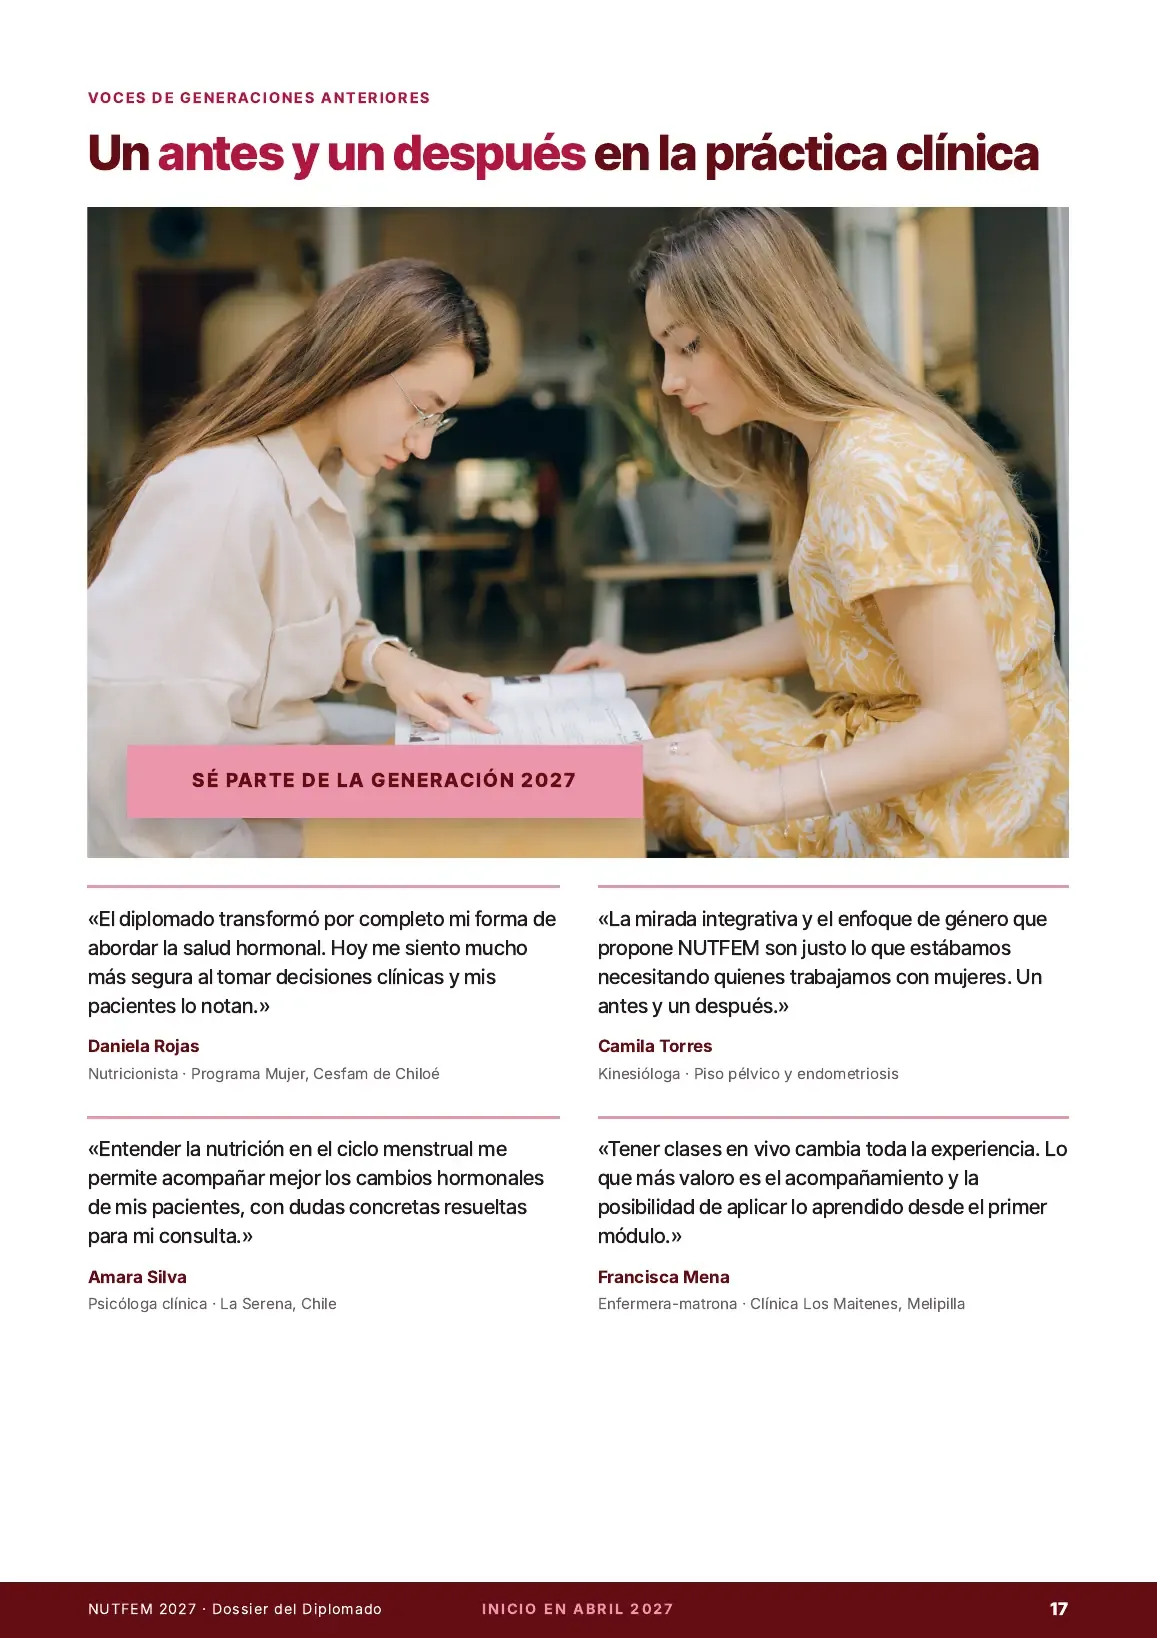
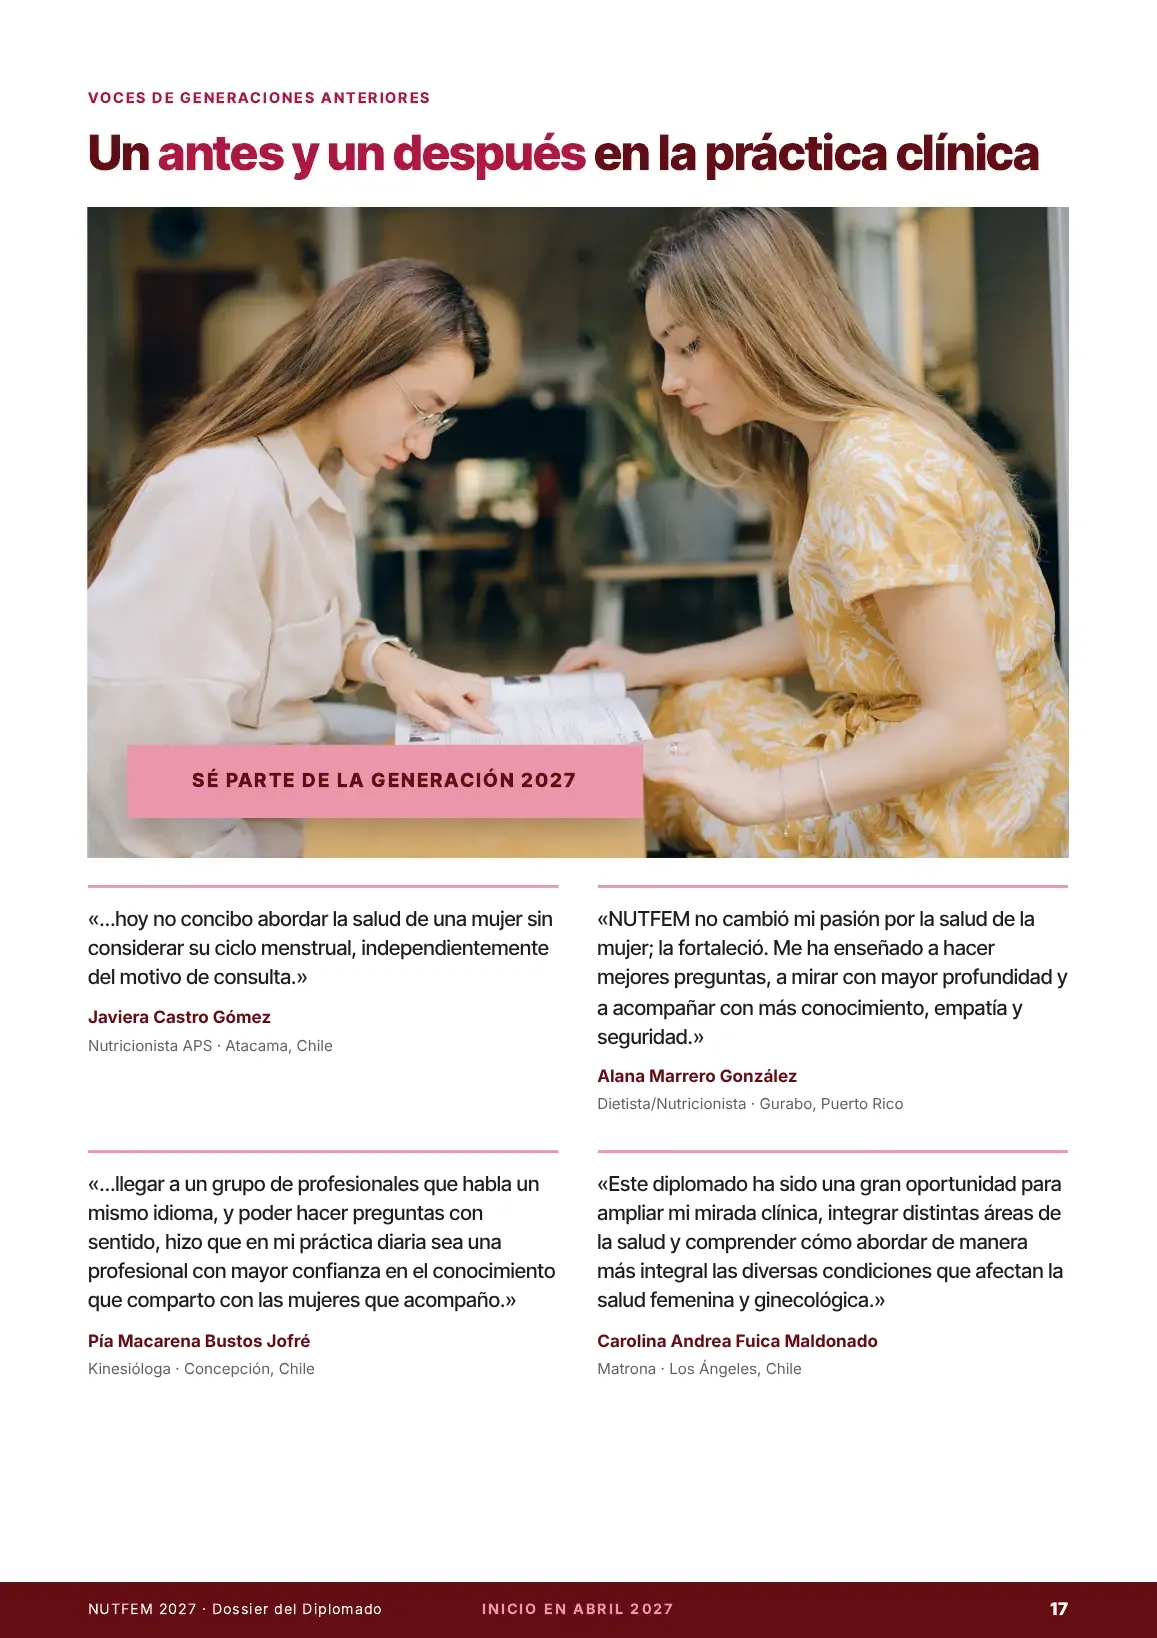
Testimonios del inicio parejos, contacto del Diplomado directo a MailerLite y página 17 del dossier con testimonios reales
Claude-Session: https://claude.ai/code/session_01KtuHfvi3BUJBE1MWiZDu5h

Changed region(s): [[0.4978, 0.5604, 0.9334, 0.8407], [0.0622, 0.5604, 0.4667, 0.8407]]

diff --git a/diplomado.html b/diplomado.html
@@ -1087,7 +1087,7 @@ html.rg-on,html.rg-on body{overflow:hidden}
 <li><a href="#metodologia">Metodología</a></li>
 <li><a href="#docentes">Docentes</a></li>
 <li><a href="#precios">Precios</a></li>
-<li><a href="#contactar" data-contacto>Contacto</a></li>
+<li><a href="https://contacto-nutfem.subscribepage.io/" target="_blank" rel="noopener">Contacto</a></li>
 </ul>
 <a class="btn" href="https://encuadrado.com/s/consulta-marcela-paz-calderon/diplomado-nutfem-2027/" data-reserva>RESERVAR<span class="nb-x"> MI CUPO</span></a></div></nav>
 
@@ -1222,10 +1222,10 @@ html.rg-on,html.rg-on body{overflow:hidden}
 <div class="pr-c"><small>Valor intermedio</small><span>Enero y febrero de 2027</span><b>$1.150.000</b><em>≈ USD 1.173</em><i>Próximamente</i></div>
 <div class="pr-c"><small>Valor final</small><span>Desde el 1 de marzo de 2027</span><b>$1.390.000</b><em>≈ USD 1.418</em><i>Próximamente</i></div>
 </div>
-<ul class="pr-n pr-nl"><li>Valores en pesos chilenos (CLP).</li><li>Los valores expresados en dólares son referenciales y pueden variar según el tipo de cambio vigente al momento del pago.</li><li>Las opciones de pago en cuotas dependerán del medio de pago seleccionado.</li><li>Para consultar por opciones especiales de pago, <a href="#contactar" data-contacto data-motivo="cuotas">contáctanos</a>.</li></ul>
+<ul class="pr-n pr-nl"><li>Valores en pesos chilenos (CLP).</li><li>Los valores expresados en dólares son referenciales y pueden variar según el tipo de cambio vigente al momento del pago.</li><li>Las opciones de pago en cuotas dependerán del medio de pago seleccionado.</li><li>Para consultar por opciones especiales de pago, <a href="https://contacto-nutfem.subscribepage.io/" target="_blank" rel="noopener">contáctanos</a>.</li></ul>
 </div></section>
 
-<section class="fqN"><div class="w fqN-g"><div class="fqN-h"><p class="kx">Antes de inscribirte</p><h2>Preguntas <span>frecuentes</span></h2><p>¿Tienes otra duda? <a href="#contactar" data-contacto style="color:var(--deep);font-weight:600">Escríbenos aquí</a> y te contactamos.</p></div><div class="fqN-l"><details><summary>¿A quién está dirigido el diplomado?</summary><p>A profesionales y estudiantes de último año de carreras del área de la salud que buscan integrar nutrición y salud hormonal femenina en su práctica: nutricionistas, médicas, matronas, kinesiólogas, psicólogas, enfermeras y otras disciplinas clínicas.</p></details><details><summary>¿Qué formación previa se requiere?</summary><p>Título profesional de una carrera del área de la salud, reconocido por el Ministerio de Salud de tu país, o un certificado que acredite ser estudiante regular, en el caso de estudiantes de último año. La experiencia clínica potencia la formación, y el programa acoge también a recién egresadas.</p></details><details><summary>¿Puedo participar desde otro país?</summary><p>Sí. Al ser 100 % online, puedes cursarlo desde cualquier lugar. Las clases en vivo son en horario de Chile; en <a href="#metodologia" style="color:var(--deep);font-weight:600">Cómo se vive cada módulo</a> puedes verlas en tu hora local. Todo queda grabado.</p></details><details><summary>¿Cómo es la modalidad?</summary><p>100 % online, de abril a septiembre de 2027. Cada mes hay dos encuentros en vivo los miércoles (19:00 a 20:15 y 19:00 a 21:00, hora de Chile) y una jornada el sábado (9:00 a 15:30, con almuerzo de 13:00 a 14:00). Todo queda grabado para verlo en diferido; la única instancia obligatoria en vivo es la presentación final del Portafolio Clínico.</p></details><details><summary>¿Cómo se desarrolla el Portafolio Clínico?</summary><p>Con dos casos reales de tu consulta, acompañados por una tutoría mensual hasta su presentación final ante el equipo docente.</p></details><details><summary>¿Cómo se evalúa?</summary><p>Con 6 evaluaciones de módulo basadas en viñetas clínicas, actividades formativas por módulo y el Portafolio Clínico con su presentación final.</p></details><details><summary>¿Qué necesito para certificarme?</summary><p>Visualizar todas las clases, en vivo o en diferido; aprobar las seis evaluaciones de módulo; entregar las actividades formativas; cumplir los hitos del Portafolio Clínico y aprobar su presentación final.</p></details><details><summary>¿Qué certificación entrega?</summary><p>Al finalizar recibes un diploma digital en Nutrición Hormonal Femenina Integrativa, otorgado por la Academia NUTFEM.</p></details><details><summary>¿Cuáles son las modalidades de pago?</summary><p>Según el medio de pago, puedes pagar el valor total o en cuotas. En casos particulares se pueden evaluar otras opciones de pago. Encontrarás el detalle en el dossier del programa. Si quieres conocer las opciones en cuotas, <a href="#contactar" data-contacto data-motivo="cuotas" style="color:var(--deep);font-weight:600">escríbenos</a>.</p></details><details><summary>¿Dónde encuentro más detalles?</summary><p>En el dossier del programa, con la malla completa, el calendario, la evaluación y los valores. <a href="https://dossier-nutfem2027.subscribepage.io/" target="_blank" rel="noopener" style="color:var(--deep);font-weight:600">Solicítalo aquí</a>.</p></details></div></div></section>
+<section class="fqN"><div class="w fqN-g"><div class="fqN-h"><p class="kx">Antes de inscribirte</p><h2>Preguntas <span>frecuentes</span></h2><p>¿Tienes otra duda? <a href="https://contacto-nutfem.subscribepage.io/" target="_blank" rel="noopener" style="color:var(--deep);font-weight:600">Escríbenos aquí</a> y te contactamos.</p></div><div class="fqN-l"><details><summary>¿A quién está dirigido el diplomado?</summary><p>A profesionales y estudiantes de último año de carreras del área de la salud que buscan integrar nutrición y salud hormonal femenina en su práctica: nutricionistas, médicas, matronas, kinesiólogas, psicólogas, enfermeras y otras disciplinas clínicas.</p></details><details><summary>¿Qué formación previa se requiere?</summary><p>Título profesional de una carrera del área de la salud, reconocido por el Ministerio de Salud de tu país, o un certificado que acredite ser estudiante regular, en el caso de estudiantes de último año. La experiencia clínica potencia la formación, y el programa acoge también a recién egresadas.</p></details><details><summary>¿Puedo participar desde otro país?</summary><p>Sí. Al ser 100 % online, puedes cursarlo desde cualquier lugar. Las clases en vivo son en horario de Chile; en <a href="#metodologia" style="color:var(--deep);font-weight:600">Cómo se vive cada módulo</a> puedes verlas en tu hora local. Todo queda grabado.</p></details><details><summary>¿Cómo es la modalidad?</summary><p>100 % online, de abril a septiembre de 2027. Cada mes hay dos encuentros en vivo los miércoles (19:00 a 20:15 y 19:00 a 21:00, hora de Chile) y una jornada el sábado (9:00 a 15:30, con almuerzo de 13:00 a 14:00). Todo queda grabado para verlo en diferido; la única instancia obligatoria en vivo es la presentación final del Portafolio Clínico.</p></details><details><summary>¿Cómo se desarrolla el Portafolio Clínico?</summary><p>Con dos casos reales de tu consulta, acompañados por una tutoría mensual hasta su presentación final ante el equipo docente.</p></details><details><summary>¿Cómo se evalúa?</summary><p>Con 6 evaluaciones de módulo basadas en viñetas clínicas, actividades formativas por módulo y el Portafolio Clínico con su presentación final.</p></details><details><summary>¿Qué necesito para certificarme?</summary><p>Visualizar todas las clases, en vivo o en diferido; aprobar las seis evaluaciones de módulo; entregar las actividades formativas; cumplir los hitos del Portafolio Clínico y aprobar su presentación final.</p></details><details><summary>¿Qué certificación entrega?</summary><p>Al finalizar recibes un diploma digital en Nutrición Hormonal Femenina Integrativa, otorgado por la Academia NUTFEM.</p></details><details><summary>¿Cuáles son las modalidades de pago?</summary><p>Según el medio de pago, puedes pagar el valor total o en cuotas. En casos particulares se pueden evaluar otras opciones de pago. Encontrarás el detalle en el dossier del programa. Si quieres conocer las opciones en cuotas, <a href="https://contacto-nutfem.subscribepage.io/" target="_blank" rel="noopener" style="color:var(--deep);font-weight:600">escríbenos</a>.</p></details><details><summary>¿Dónde encuentro más detalles?</summary><p>En el dossier del programa, con la malla completa, el calendario, la evaluación y los valores. <a href="https://dossier-nutfem2027.subscribepage.io/" target="_blank" rel="noopener" style="color:var(--deep);font-weight:600">Solicítalo aquí</a>.</p></details></div></div></section>
 
 <section class="dzb" id="dossier"><div class="w dzb-g">
 <div class="dzb-doc" aria-hidden="true"><div class="dzb-cv"><small>DOSSIER</small><b>NUTFEM<br>2027</b><span>Diplomado Clínico en Nutrición Hormonal Femenina Integrativa</span></div></div>
@@ -1420,7 +1420,7 @@ const NUTFEM = {
   pg.addEventListener('click',e=>{if(e.target===pg||e.target.classList.contains('rg-g')) closePop(e)});
   document.addEventListener('keydown',e=>{if(e.key==='Escape'&&!pg.hidden) closePop()});
   window.addEventListener('popstate',()=>{if(!pg.hidden&&location.hash!=='#contactar'){pushed=false;hide()}});
-  try{if(location.hash==='#contactar'){keepY=0;show()}}catch(_){}
+  try{if(location.hash==='#contactar'){location.replace('https://contacto-nutfem.subscribepage.io/')}}catch(_){}
 })();
 /* ===== Horarios en la hora local ===== */
 (function(){
@@ -1459,7 +1459,7 @@ t.addEventListener('click',function(){var o=l.classList.toggle('open');t.setAttr
 l.querySelectorAll('a').forEach(function(a){a.addEventListener('click',function(){l.classList.remove('open');t.setAttribute('aria-expanded','false');t.textContent='Menú';});});
 var links=[].slice.call(l.querySelectorAll('a'));
 if('IntersectionObserver' in window){var io=new IntersectionObserver(function(es){es.forEach(function(e){if(e.isIntersecting){links.forEach(function(a){a.classList.toggle('on',a.getAttribute('href')==='#'+e.target.id);});}});},{rootMargin:'-45% 0px -50% 0px'});
-links.forEach(function(a){var el=document.querySelector(a.getAttribute('href'));if(el)io.observe(el);});}})();
+links.forEach(function(a){var h=a.getAttribute('href')||'';var el=/^#[\w-]+$/.test(h)?document.querySelector(h):null;if(el)io.observe(el);});}})();
 
 </script>
 <script>

diff --git a/index.html b/index.html
@@ -643,6 +643,8 @@ mark.hl{color:inherit;background:linear-gradient(transparent 58%,#F6C9D5 58%,#F6
 .ttext.clamp{max-height:10.5em;overflow:hidden;position:relative}
 .ttext.clamp:after{content:"";position:absolute;inset:auto 0 0;height:3.2em;background:linear-gradient(rgba(255,246,248,0),var(--bg2))}
 .tcard .tbtn{align-self:flex-start;margin-top:auto;padding-top:6px}.tcard .ttext{margin-bottom:6px}
+.tcard .ttext{min-height:10.5em}
+.tcard .tbtn[hidden]{display:inline-block!important;visibility:hidden}
 .tfeat{margin-top:36px}
 @media(max-width:900px){.tgrid{grid-template-columns:1fr}}
 
@@ -914,7 +916,7 @@ footer .fbar .fine a{color:#fff;text-decoration:underline;text-decoration-color:
   <article class="tcard"><header><span class="tav" aria-hidden="true">JC</span><div><b>Javiera Castro Gómez</b><small>Nutricionista APS</small><small>Atacama, Chile</small></div></header>
    <div class="ttext"><p>El ejemplo más concreto es que hoy no concibo abordar la salud de una mujer sin considerar su ciclo menstrual, independientemente del motivo de consulta. Comprendo que este nos entrega información profundamente valiosa sobre su salud y bienestar, por lo que integrarlo en el acompañamiento clínico se vuelve fundamental para comprenderla desde una mirada verdaderamente integral.</p><p>Asimismo, siento la necesidad de transmitir a cada mujer, paciente o no, la importancia de conocer, comprender y conectar con su propio ciclo menstrual, reconociéndolo como una expresión esencial de su salud y de su experiencia como mujer. Porque abordar la salud de las mujeres también implica visibilizar, valorar y dar el lugar que merece a un aspecto de su fisiología que históricamente ha sido silenciado y que nunca más debiera quedar al margen de su cuidado.</p></div><button type="button" class="tbtn" aria-expanded="false" hidden>Leer más</button></article>
   <article class="tcard"><header><span class="tav" aria-hidden="true">PB</span><div><b>Pía Macarena Bustos Jofré</b><small>Kinesióloga</small><small>Concepción, Chile</small></div></header>
-   <div class="ttext"><p>Poder generar autoconfianza. Muchas veces pensé que mi propio abordaje profesional, al no ser convencional, era poco valorado. Pero llegar a un grupo de profesionales que habla un mismo idioma, y poder hacer preguntas con sentido, hizo que en mi práctica diaria sea una profesional con mayor confianza en el conocimiento que comparto con las mujeres que acompaño.</p></div><button type="button" class="tbtn" aria-expanded="false" hidden>Leer más</button></article>
+   <div class="ttext"><p>Muchas veces pensé que mi propio abordaje profesional, al no ser convencional, era poco valorado. Pero llegar a un grupo de profesionales que habla un mismo idioma, y poder hacer preguntas con sentido, hizo que en mi práctica diaria sea una profesional con mayor confianza en el conocimiento que comparto con las mujeres que acompaño.</p></div><button type="button" class="tbtn" aria-expanded="false" hidden>Leer más</button></article>
   <article class="tcard"><header><span class="tav" aria-hidden="true">AM</span><div><b>Alana Marrero González</b><small>Dietista/Nutricionista</small><small>Gurabo, Puerto Rico</small></div></header>
    <div class="ttext"><p>NUTFEM ha transformado la manera en que miro a mis pacientes y, sobre todo, la manera en que integro la información clínica para comprender lo que está ocurriendo en sus cuerpos. Aunque llevo años dedicándome a la nutrición clínica y acompañando a mujeres con SOP, endometriosis, alteraciones tiroideas y cambios hormonales durante la perimenopausia y menopausia, este diplomado me ha permitido conectar muchas piezas que antes evaluaba de manera más individual.</p><p>Hoy presto aún más atención a la relación entre las hormonas, la salud metabólica, la resistencia a la insulina, la composición corporal, el sueño, el estrés y la alimentación. He aprendido a mirar más allá de un resultado de laboratorio o un número en la báscula y a darle mayor valor a la historia completa de cada mujer.</p></div><button type="button" class="tbtn" aria-expanded="false" hidden>Leer más</button></article>
  </div>
@@ -1285,6 +1287,7 @@ footer .fbar .fine a{color:#fff;text-decoration:underline;text-decoration-color:
  sel(3);}
 
 
+ (function(){var hs=[].slice.call(document.querySelectorAll('.tcard header'));function eqH(){hs.forEach(function(h){h.style.minHeight=''});var g=document.querySelector('.tgrid');if(!g||getComputedStyle(g).gridTemplateColumns.split(' ').length<2)return;var m=Math.max.apply(null,hs.map(function(h){return h.offsetHeight}));hs.forEach(function(h){h.style.minHeight=m+'px'})}eqH();window.addEventListener('resize',eqH);if(document.fonts&&document.fonts.ready)document.fonts.ready.then(eqH)})();
  document.querySelectorAll('.tcard').forEach(function(c){var x=c.querySelector('.ttext'),b=c.querySelector('.tbtn');x.classList.add('clamp');if(x.scrollHeight>x.clientHeight+4){b.hidden=false;b.addEventListener('click',function(){var o=x.classList.toggle('clamp');b.setAttribute('aria-expanded',!o);b.textContent=o?'Leer más':'Mostrar menos'})}else{x.classList.remove('clamp')}});
  // popup de contacto general
  /* ===== CONFIGURACIÓN DE FORMULARIOS · pega aquí los enlaces =====
